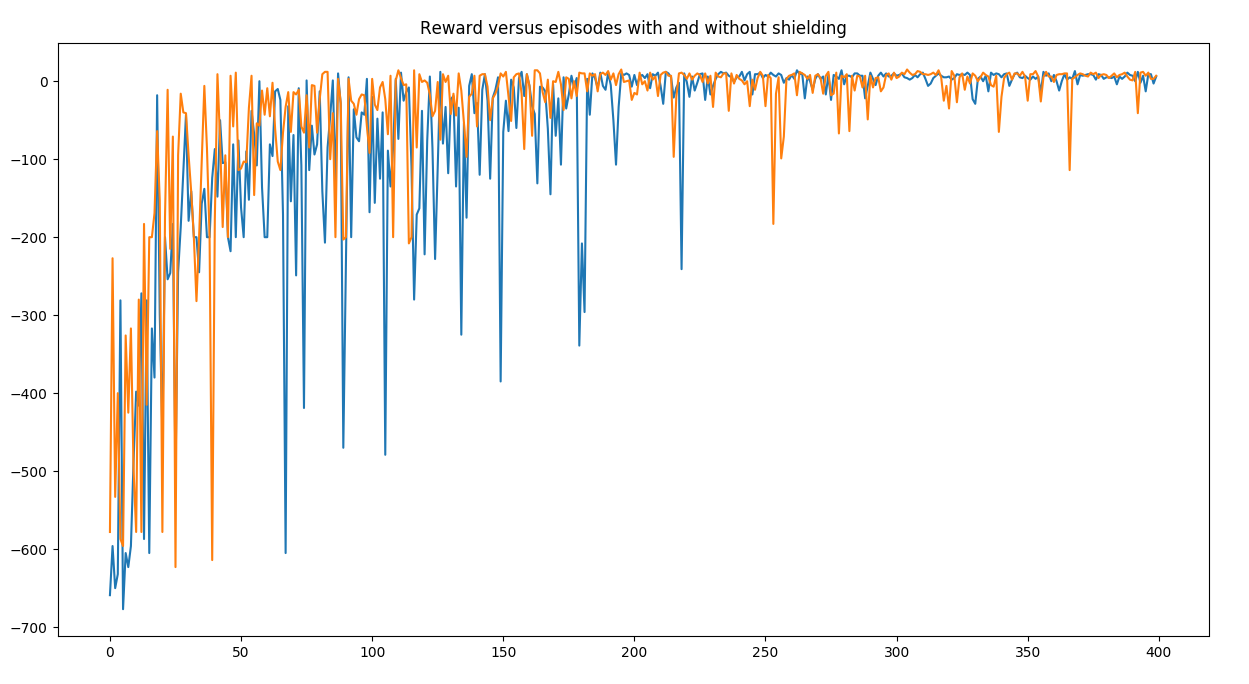
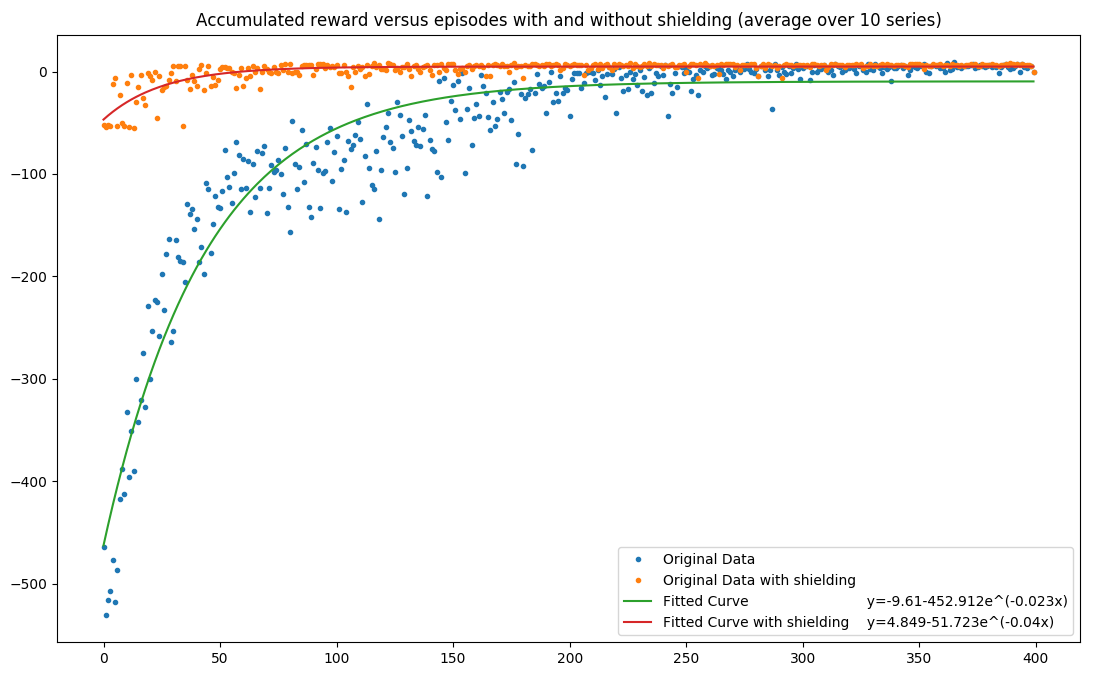
added constant to exp function

diff --git a/TaxiQData.py b/TaxiQData.py
@@ -231,15 +231,14 @@ if plotExponential:
     graphData2 = np.array(graphData2, dtype=float) #so the curve_fit can work
 
 
-    def func(x, a, b):
-        return -a*(math.e**(-b*x))
+    def func(x, a, b, c):
+        return -a*(math.e**(-b*x))+c
 
     popt1, pcov1 = curve_fit(func, t, graphData)
     popt2, pcov2 = curve_fit(func, t, graphData2)
 
-
-    print("a = %s , b = %s" % (popt1[0], popt1[1]))
-    print("a = %s , b = %s" % (popt2[0], popt2[1]))
+    print("a = %s , b = %s, c = %s" % (popt1[0], popt1[1], popt1[2]))
+    print("a = %s , b = %s, c = %s" % (popt2[0], popt2[1], popt2[2]))
 
     """
     Use sympy to generate the latex sintax of the function
@@ -254,8 +253,11 @@ if plotExponential:
     Print the coefficients and plot the funcion.
     """
 
-    plt.plot(t, func(t, *popt1), label="Fitted Curve                         y=-"+ str(np.around(popt1[0],3)) + "e^(-" + str(np.around(popt1[1],3)) +"x)") #same as line above \/
-    plt.plot(t, func(t, *popt2), label="Fitted Curve with shielding  y=-"+ str(np.around(popt2[0],3)) + "e^(-" + str(np.around(popt2[1],3)) +"x)") #same as line above \/
+    plt.plot(t, func(t, *popt1),
+             label="Fitted Curve                           y=" + str(np.around(popt1[2], 3)) + "-" + str(
+                 np.around(popt1[0], 3)) + "e^(-" + str(np.around(popt1[1], 3)) + "x)")  # same as line above \/
+    plt.plot(t, func(t, *popt2), label="Fitted Curve with shielding    y=" + str(np.around(popt2[2], 3)) + "-" + str(
+        np.around(popt2[0], 3)) + "e^(-" + str(np.around(popt2[1], 3)) + "x)")  # same as line above \/
     #plt.plot(x, popt[0]*x**3 + popt[1]*x**2 + popt[2]*x + popt[3], label="Fitted Curve")
 
     plt.legend(loc='lower right')

diff --git a/TaxiQDataAverage.py b/TaxiQDataAverage.py
@@ -251,15 +251,15 @@ if plotExponential:
     averageGraph2 = np.array(averageGraph2, dtype=float) #so the curve_fit can work
 
 
-    def func(x, a, b):
-        return -a*(math.e**(-b*x))
+    def func(x, a, b, c):
+        return -a*(math.e**(-b*x))+c
 
     popt1, pcov1 = curve_fit(func, t, averageGraph1)
     popt2, pcov2 = curve_fit(func, t, averageGraph2)
 
 
-    print("a = %s , b = %s" % (popt1[0], popt1[1]))
-    print("a = %s , b = %s" % (popt2[0], popt2[1]))
+    print("a = %s , b = %s, c = %s" % (popt1[0], popt1[1], popt1[2]))
+    print("a = %s , b = %s, c = %s" % (popt2[0], popt2[1], popt2[2]))
 
     """
     Use sympy to generate the latex sintax of the function
@@ -274,8 +274,8 @@ if plotExponential:
     Print the coefficients and plot the funcion.
     """
 
-    plt.plot(t, func(t, *popt1), label="Fitted Curve                         y=-"+ str(np.around(popt1[0],3)) + "e^(-" + str(np.around(popt1[1],3)) +"x)") #same as line above \/
-    plt.plot(t, func(t, *popt2), label="Fitted Curve with shielding  y=-"+ str(np.around(popt2[0],3)) + "e^(-" + str(np.around(popt2[1],3)) +"x)") #same as line above \/
+    plt.plot(t, func(t, *popt1), label="Fitted Curve                           y=" + str(np.around(popt1[2],3)) + "-"+ str(np.around(popt1[0],3)) + "e^(-" + str(np.around(popt1[1],3)) +"x)") #same as line above \/
+    plt.plot(t, func(t, *popt2), label="Fitted Curve with shielding    y=" + str(np.around(popt2[2],3)) + "-"+ str(np.around(popt2[0],3)) + "e^(-" + str(np.around(popt2[1],3)) +"x)") #same as line above \/
     #plt.plot(x, popt[0]*x**3 + popt[1]*x**2 + popt[2]*x + popt[3], label="Fitted Curve")
 
     plt.legend(loc='lower right')
